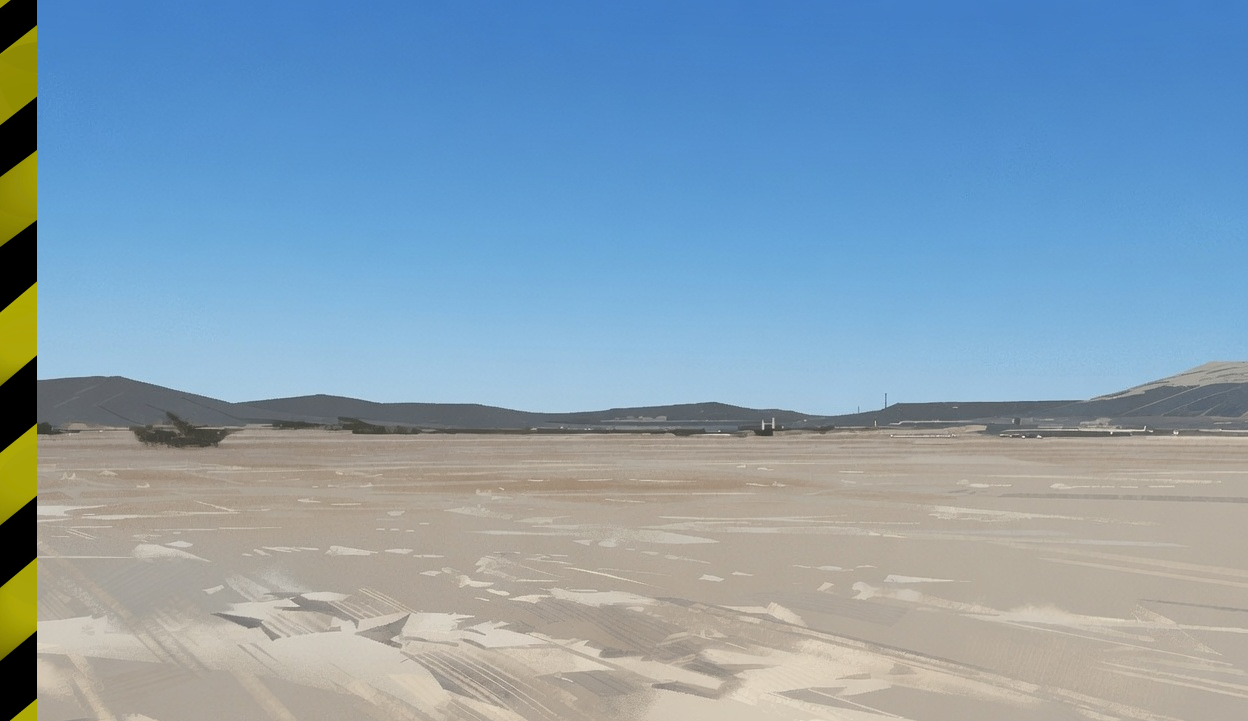
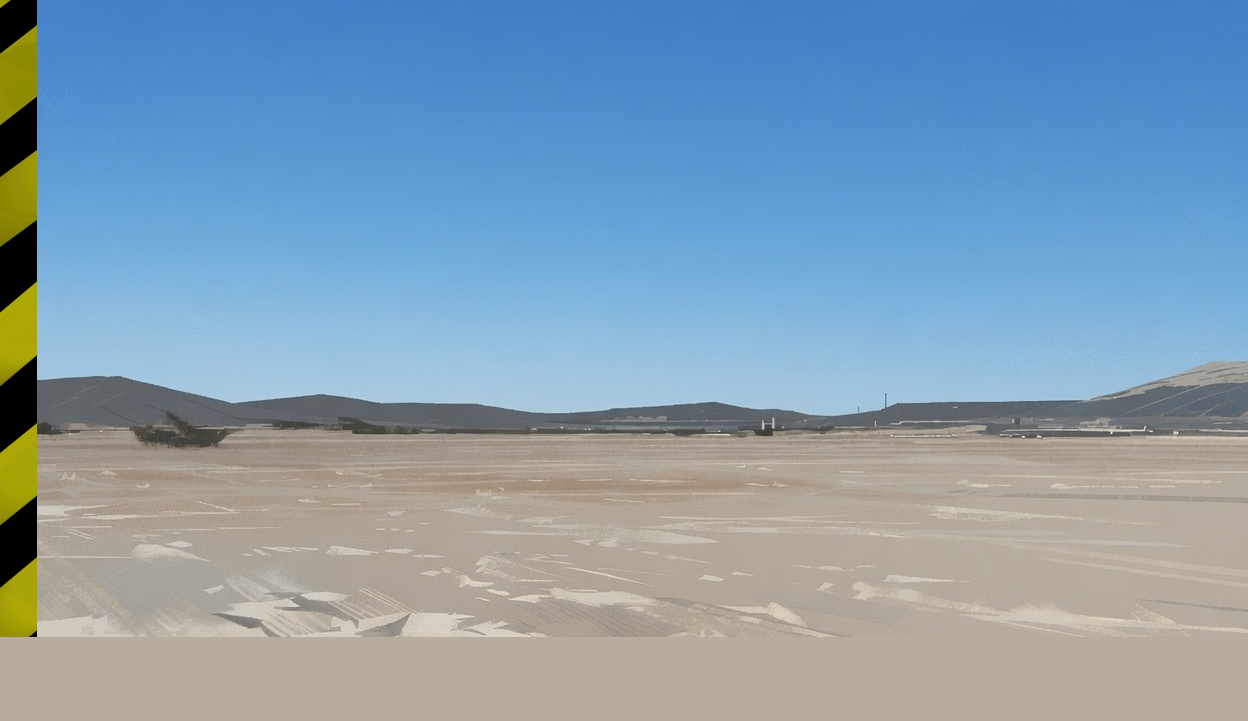
Added all buttons of setting panel, yet to code func yet

Changed region(s): [[0.1562, 0.8849, 0.7812, 1.0], [0.0, 0.8849, 0.0938, 1.0], [0.7812, 0.9459, 0.8125, 0.9764]]

diff --git a/main.py b/main.py
@@ -6,130 +6,144 @@ from PyQt5.QtCore import *
 
 from settings import Settings
 from basicparameters import BasicParameters
+from visualdisplay import VisualDisplay
+from cannonsettings import CannonSettings
+from cannonballdetails import CannonballDetails
+class Program(QWidget):
+    def __init__(self):
+        super().__init__()
 
-class Program:
-def **init**(self):
-self.settings = Settings()
-self.app = QApplication(sys.argv)
-self.window = Window()
+        self.setWindowTitle("Projectile Motion sim")
+        self.background = QPixmap(os.path.abspath("asset/background.png"))
+        self.resize(800, 500)
 
-```
-def run(self):
-    self.window.show()
-    sys.exit(self.app.exec_())
-```
+        self.settings = Settings()
+        self.settings_window = None
 
-class Window(QWidget):
-def **init**(self):
-super().**init**()
+        self.settings_panel = QPushButton("⚙ Settings    ▼")
+        self.settings_panel.clicked.connect(self.toggle_settings)
 
-```
-    self.setWindowTitle("Projectile Motion sim")
-    self.background = QPixmap(os.path.abspath("asset/background.png"))
-    self.resize(800, 500)
+        self.settings_panel.setFixedSize(150, 40)
 
-    self.settings = Settings()
-    self.settings_window = None
+        self.settings_menu = QFrame()
 
-    self.settings_panel = QPushButton("⚙ Settings    ▼")
-    self.settings_panel.clicked.connect(self.toggle_settings)
+        self.settings_menu.setStyleSheet("""
+            QFrame {
+                background-color: #c2c1c2;
+                border: 1px solid #cccccc;
+                border-radius: 8px;
+            }
+    
+            QPushButton {
+                background-color: #c2c1c2;
+                color: black;
+                border: grey;
+                padding: 8px;
+                text-align: left;
+                border-radius: 4px;
+            }
+    
+            QPushButton:hover {
+                background-color: #eeeeee;
+            }
+        """)
 
-    self.settings_panel.setFixedSize(150, 40)
+        settings_layout = QVBoxLayout()
 
-    self.settings_menu = QFrame()
+        settings_layout.setContentsMargins(8, 8, 8, 8)
+        settings_layout.setSpacing(4)
 
-    self.settings_menu.setStyleSheet("""
-        QFrame {
-            background-color: #c2c1c2;
-            border: 1px solid #cccccc;
-            border-radius: 8px;
-        }
+        self.settings_menu.setLayout(settings_layout)
 
-        QPushButton {
-            background-color: #c2c1c2;
-            color: black;
-            border: grey;
-            padding: 8px;
-            text-align: left;
-            border-radius: 4px;
-        }
+        self.basic_parameters_button = QPushButton("Basic Parameters")
+        self.visual_display_button = QPushButton("Visual Displays")
+        self.cannon_settings_button = QPushButton("Cannon Settings")
+        self.cannonball_details_button = QPushButton("Cannonball Details")
 
-        QPushButton:hover {
-            background-color: #eeeeee;
-        }
-    """)
+        settings_layout.addWidget(self.basic_parameters_button)
+        settings_layout.addWidget(self.visual_display_button)
+        settings_layout.addWidget(self.cannon_settings_button)
+        settings_layout.addWidget(self.cannonball_details_button)
 
-    settings_layout = QVBoxLayout()
+        self.basic_parameters_button.clicked.connect(self.unfold_basic_parameters)
+        self.visual_display_button.clicked.connect(self.unfold_visual_display)
+        self.cannon_settings_button.clicked.connect(self.unfold_cannon_settings)
+        self.cannonball_details_button.clicked.connect(self.unfold_cannonball_details)
 
-    settings_layout.setContentsMargins(8, 8, 8, 8)
-    settings_layout.setSpacing(4)
+        self.settings_menu.setVisible(False)
 
-    self.settings_menu.setLayout(settings_layout)
+        self.settings_container = QWidget()
 
-    self.basic_parameters_button = QPushButton("Basic Parameters")
-    self.visual_display_button = QPushButton("Visual Displays")
-    self.cannon_settings_button = QPushButton("Cannon Settings")
-    self.cannonball_details_button = QPushButton("Cannonball Details")
+        settings_container_layout = QVBoxLayout()
 
-    settings_layout.addWidget(self.basic_parameters_button)
-    settings_layout.addWidget(self.visual_display_button)
-    settings_layout.addWidget(self.cannon_settings_button)
-    settings_layout.addWidget(self.cannonball_details_button)
+        settings_container_layout.setContentsMargins(0, 15, 20, 0)
+        settings_container_layout.setSpacing(5)
+        settings_container_layout.setAlignment(Qt.AlignTop | Qt.AlignRight)
 
-    self.basic_parameters_button.clicked.connect(self.unfold_settings_panel)
+        settings_container_layout.addWidget(self.settings_panel)
+        settings_container_layout.addWidget(self.settings_menu)
 
-    self.settings_menu.setVisible(False)
+        self.settings_container.setLayout(settings_container_layout)
 
-    self.settings_container = QWidget()
+        layout = QVBoxLayout()
 
-    settings_container_layout = QVBoxLayout()
+        layout.setContentsMargins(0, 0, 0, 0)
 
-    settings_container_layout.setContentsMargins(0, 15, 20, 0)
-    settings_container_layout.setSpacing(5)
-    settings_container_layout.setAlignment(Qt.AlignTop | Qt.AlignRight)
+        layout.addWidget(self.settings_container)
 
-    settings_container_layout.addWidget(self.settings_panel)
-    settings_container_layout.addWidget(self.settings_menu)
+        layout.addStretch()
 
-    self.settings_container.setLayout(settings_container_layout)
+        layout.addStretch()
 
-    layout = QVBoxLayout()
+        self.setLayout(layout)
 
-    layout.setContentsMargins(0, 0, 0, 0)
 
-    layout.addWidget(self.settings_container)
+    def toggle_settings(self):
+        is_visible = self.settings_menu.isVisible()
 
-    layout.addStretch()
+        self.settings_menu.setVisible(not is_visible)
 
-    layout.addStretch()
+        if is_visible:
+            self.settings_panel.setText("⚙ Settings    ▶")
+        else:
+            self.settings_panel.setText("⚙ Settings    ▼")
 
-    self.setLayout(layout)
+    def unfold_basic_parameters(self):
+        self.settings_window = BasicParameters(self)
+        self.settings_window.show()
 
-def toggle_settings(self):
-    is_visible = self.settings_menu.isVisible()
+    def unfold_visual_display(self):
+        self.settings_window = VisualDisplay(self)
+        self.settings_window.show()
 
-    self.settings_menu.setVisible(not is_visible)
+    def unfold_cannon_settings(self):
+        self.settings_window = CannonSettings(self)
+        self.settings_window.show()
 
-    if is_visible:
-        self.settings_panel.setText("⚙ Settings    ▶")
-    else:
-        self.settings_panel.setText("⚙ Settings    ▼")
+    def unfold_cannonball_details(self):
+        self.settings_window = CannonballDetails(self)
+        self.settings_window.show()
 
-def unfold_settings_panel(self):
-    self.settings_window = BasicParameters(self)
-    self.settings_window.show()
+    def change_air_density_size(self, value):
+        print("Air density:", value)
 
-def change_air_density_size(self, value):
-    print("Air density:", value)
+    def change_gravity_size(self, value):
+        print("Gravity:", value)
 
-def change_gravity_size(self, value):
-    print("Gravity:", value)
+    def paintEvent(self, event):
+        painter = QPainter(self)
+        scaled = self.background.scaled(self.size(), aspectRatioMode=2)
+        painter.drawPixmap(0, 0, scaled)
 
-def paintEvent(self, event):
-    painter = QPainter(self)
-    scaled = self.background.scaled(self.size(), aspectRatioMode=2)
-    painter.drawPixmap(0, 0, scaled)
-```
+    def check_air_resistance(self,state):
+        if state == Qt.Checked:
+            self.air_resistance_check.setText("Air resistance is on")
+        else:
+            self.air_resistance_check.setText("Air resistance is off")
 
-program = Program()
-program.run()
+
+
+app = QApplication(sys.argv)
+window = Program()
+window.show()
+sys.exit(app.exec_())

diff --git a/basicparameters.py b/basicparameters.py
@@ -12,6 +12,10 @@ class BasicParameters(QWidget):
         self.setWindowTitle("Basic Parameters")
         self.setFixedSize(350, 250)
 
+        air_resistance_label = QLabel("Air resistance")
+
+        self.air_resistance_checkbox = QCheckBox()
+
         air_density_label= QLabel("Air Density")
 
         self.air_density_slider = QSlider(Qt.Horizontal)
@@ -42,6 +46,14 @@ class BasicParameters(QWidget):
 
         layout = QVBoxLayout()
 
+        air_resistance_row = QHBoxLayout()
+        air_resistance_row.addWidget(air_resistance_label)
+        air_resistance_row.addWidget(self.air_resistance_checkbox)
+        air_resistance_row.addStretch()
+
+        layout.addLayout(air_resistance_row)
+
+
         layout.addWidget(air_density_label)
 
         air_density_row = QHBoxLayout()
@@ -57,6 +69,7 @@ class BasicParameters(QWidget):
         gravity_row.addWidget(self.gravity_input)
 
         layout.addLayout(gravity_row)
+
 
         self.setLayout(layout)
 

diff --git a/cannonballdetails.py b/cannonballdetails.py
@@ -1,0 +1,12 @@
+from PyQt5.QtWidgets import *
+from PyQt5.QtGui import *
+from PyQt5.QtCore import *
+
+
+class CannonballDetails(QWidget):
+
+    def __init__(self, main_window):
+        super().__init__()
+        self.main_window = main_window
+        self.setWindowTitle("Cannonball Details")
+        self.setFixedSize(350, 250)

diff --git a/cannonsettings.py b/cannonsettings.py
@@ -1,0 +1,12 @@
+from PyQt5.QtWidgets import *
+from PyQt5.QtGui import *
+from PyQt5.QtCore import *
+
+
+class CannonSettings(QWidget):
+
+    def __init__(self, main_window):
+        super().__init__()
+        self.main_window = main_window
+        self.setWindowTitle("Cannon Settings")
+        self.setFixedSize(350, 250)

diff --git a/visualdisplay.py b/visualdisplay.py
@@ -1,0 +1,13 @@
+from PyQt5.QtWidgets import *
+from PyQt5.QtGui import *
+from PyQt5.QtCore import *
+
+
+class VisualDisplay(QWidget):
+
+    def __init__(self, main_window):
+        super().__init__()
+        self.main_window = main_window
+        self.setWindowTitle("Visual Display")
+        self.setFixedSize(350, 250)
+
